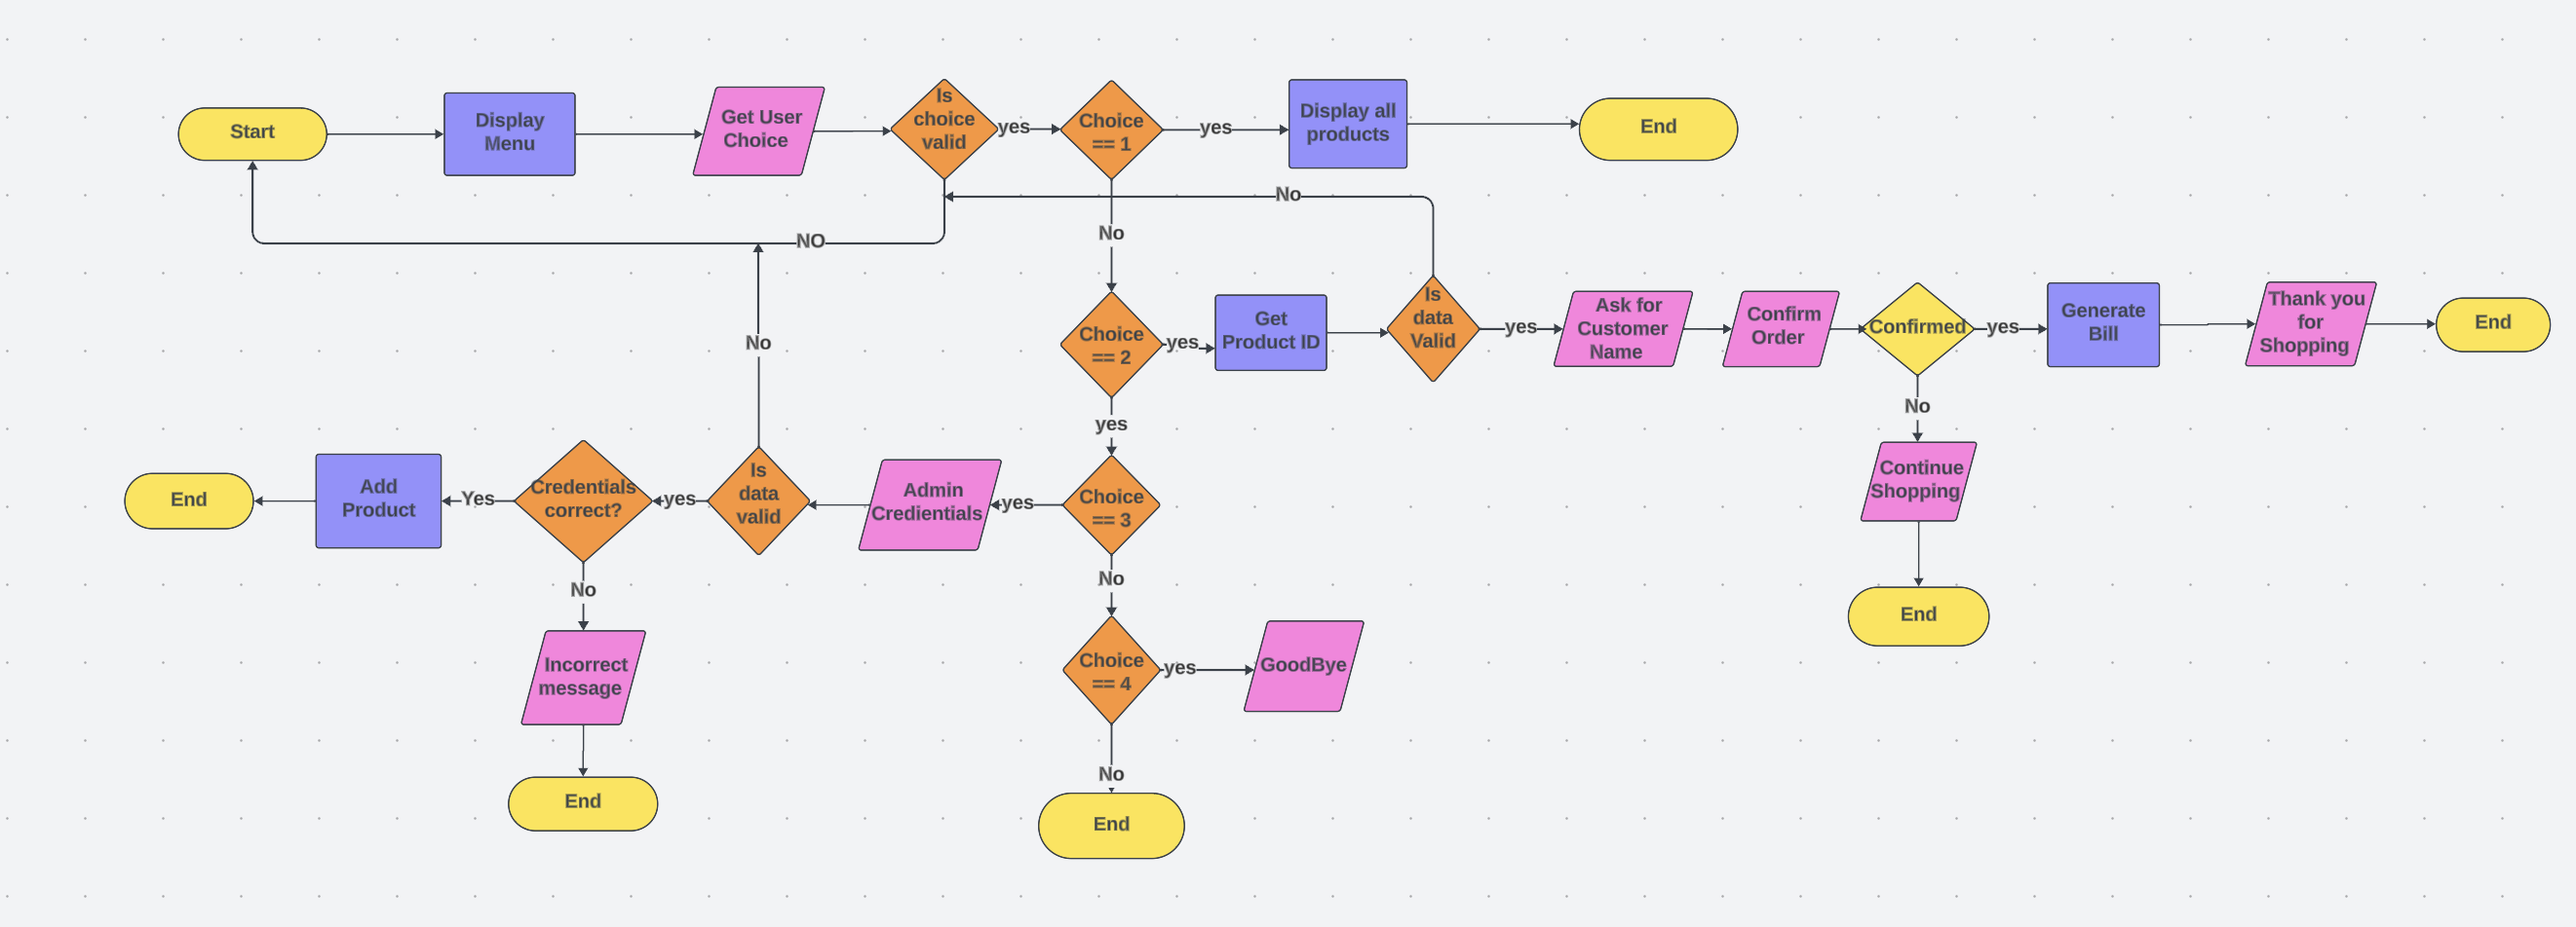
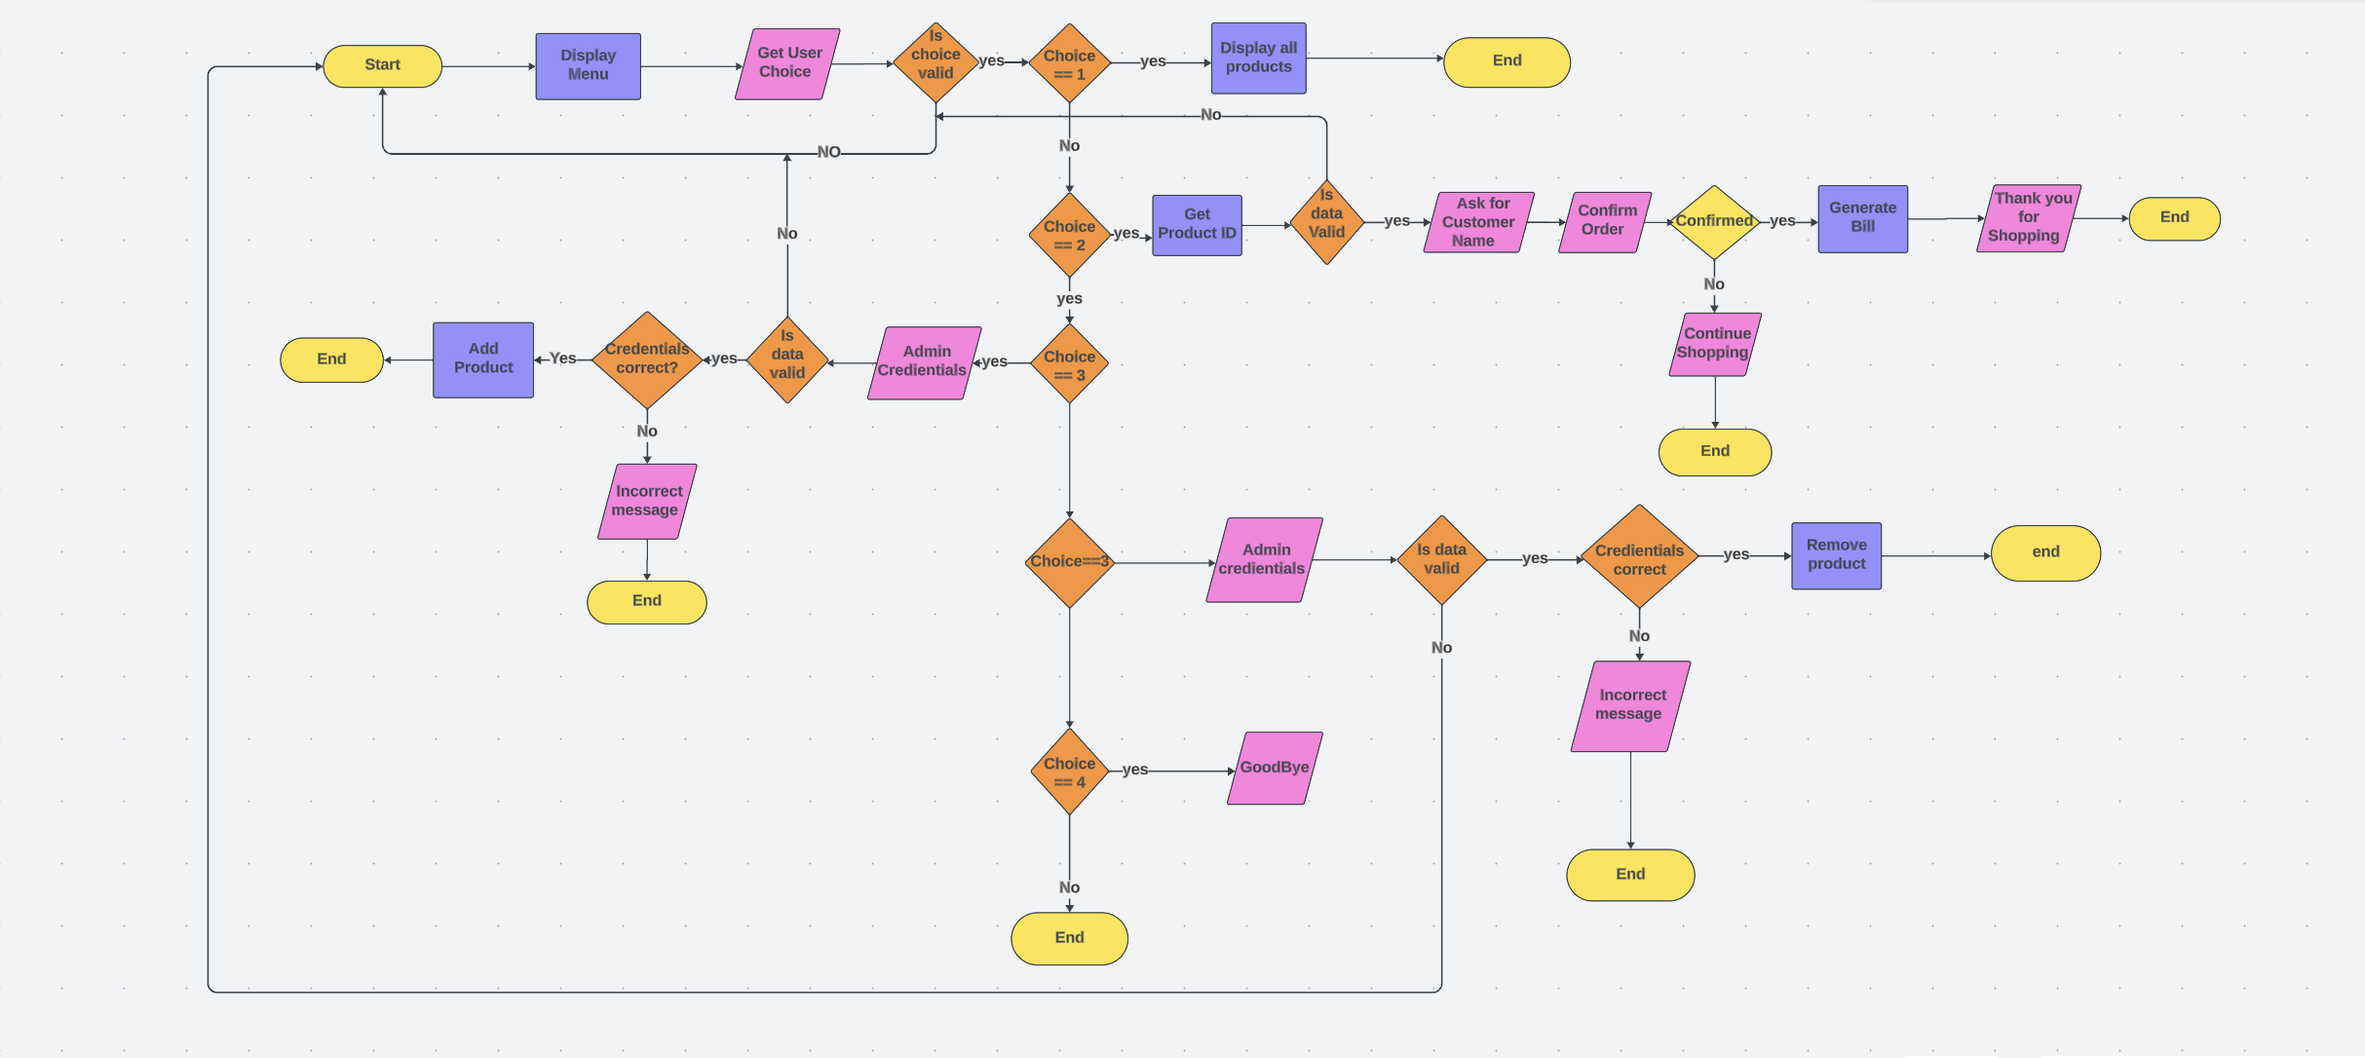
adding removeproducts screenshots to readme

diff --git a/run.py b/run.py
@@ -31,7 +31,7 @@ class InventorySystem:
         username = input("Enter Admin UserID:\n")
         password = input("Enter the Password:\n")
         if username == "Admin" and password == "password":
-            if case == 'add':
+            if case == "add":
                 prod = []
                 added = self.add_product(prod)
                 if added:
@@ -40,12 +40,12 @@ class InventorySystem:
                     productsheet.append_row(prod)
                     print("Product Data added to the Database")
                 else:
-                    print('Product exists already in the Database')
-            elif case == 'remove':
-                prod = input('Enter Product Id: ')
+                    print("Product exists already in the Database")
+            elif case == "remove":
+                prod = input("Enter Product Id: ")
                 remove = self.remove_product(prod)
                 if not remove:
-                    print('Product Id not found in the Database')
+                    print("Product Id not found in the Database")
         else:
             print("Incorrect username and password")
 
@@ -59,7 +59,7 @@ class InventorySystem:
         if not product_exists:
             quantity = input("Available Items:\n")
             price = input("Price per Unit:\n")
-            total_price = int(quantity)*int(price)
+            total_price = int(quantity) * int(price)
             if len(self.all_products) > 1:
                 prod.append(int(len(self.all_products)))
             prod.append(product_name)
@@ -79,10 +79,10 @@ class InventorySystem:
                 # Remove the product from the Google Sheet
                 productsheet = SHEET.worksheet("productsheet")
                 # Add 1 because the worksheet index starts from 1
-                productsheet.delete_rows(index+1)
+                productsheet.delete_rows(index + 1)
 
-                print("Product with ID {}, Name ( {} ) removed successfully.".format(
-                    int(prod_id), item[1]))
+                print("Product with ID {}, Name ({}) removed successfully."
+                      .format(int(prod_id), item[1]))  
                 break
         else:
             return False
@@ -107,47 +107,77 @@ class InventorySystem:
         if not self.all_products:
             print("No products available.")
         else:
-            max_widths = [max(len(str(item[i]))
-                              for item in self.all_products) for i in range(4)]
+            max_widths = [
+                max(
+                    len(
+                        str(
+                            item[i])) for item in self.all_products
+                            )for i in range(4)]
             headers = ["Product ID", "Product Name", "In Stock", "Price"]
-            format_string = "{:<{width[0]}} {:<{width[1]}} {:<{width[2]}} {:<{width[3]}}"
+            format_string = (
+                "{:<{width[0]}} {:<{width[1]}} {:<{width[2]}} {:<{width[3]}}"
+            )
             print(format_string.format(*headers, width=max_widths))
-            print("------------------------------------------------------------")
+            print(
+                "------------------------------------------------------------")
             for index, item in enumerate(self.all_products, start=1):
                 if index == 1:
                     continue
-                print(format_string.format(
-                    index - 1, item[1], item[2], item[3], width=max_widths))
+                print(
+                    format_string.format(
+                        index - 1, item[1], item[2], item[3], width=max_widths
+                    )
+                )
 
     def banner(self):
-        print("***************************************************************************")
-        print(pyfiglet.figlet_format(
-            "WELCOME TO ELECTRONICS WORLD", justify="center", width=80))
-        print("***************************************************************************")
+        print(
+            "***********************************\
+            ****************************************"
+        )
+        print(
+            pyfiglet.figlet_format(
+                "WELCOME TO ELECTRONICS WORLD", justify="center", width=80
+            )
+        )
+        print(
+            "******************************************\
+            *********************************"
+        )
         print("\t1.Show All Products")
         print("\t2.Buy a Product")
         print("\t3.Add Products")
         print("\t4.Remove Products")
         print("\t5.Exit")
-        print("***************************************************************************")
+        print(
+            "********************************************\
+            *******************************"
+        )
 
     def order_summary(self, prod_id, name):
         for item in self.all_products[1:]:
             if item[0] == prod_id:
                 print(
-                    "***************************************************************************")
+                    "*****************************************\
+                    **********************************"
+                )
                 print("\t\t\tElectronics World")
                 print(
-                    "***************************************************************************")
+                    "******************************************\
+                    *********************************"
+                )
                 print("Order Summary\tDate:{}".format(str(datetime.now())))
                 print("Customer Name: {}".format(name))
                 print("Product Name: {}".format(item[1]))
                 print("Price: {}".format(item[3]))
                 print(
-                    "***************************************************************************")
+                    "*****************************************\
+                    **********************************"
+                )
                 print("\t\t\tTotal Bill Amount: {}".format(item[3]))
                 print(
-                    "***************************************************************************")
+                    "********************************************\
+                    *******************************"
+                )
                 break
 
     def generate_bill(self, prod_id, name):
@@ -166,19 +196,28 @@ class InventorySystem:
             quantity = 1
             total_cost = price * quantity
             print(
-                "***************************************************************************")
+                "********************************************\
+                *******************************"
+            )
             print("\t\t\tElectronics World")
             print(
-                "***************************************************************************")
-            print("Bill:{} \tDate:{}".format(
-                int(random.random() * 100000), str(datetime.now())))
+                "*****************************************\
+                **********************************"
+            )
+            print(
+                "Bill:{} \tDate:{}".format(
+                    int(random.random() * 100000), str(datetime.now())
+                )
+            )
             print("Customer Name: {}".format(name))
             print("Product Name: {}".format(item[1]))
             print("Price per Unit: ${}".format(price))
             print("Quantity: {}".format(quantity))
             print("Total Cost: ${}".format(total_cost))
             print(
-                "***************************************************************************")
+                  "*********************************\
+                  ******************************************"
+            )
             print("\t\t\tTotal Bill Amount: ${}\n".format(total_cost))
         else:
             print("Product not found with the given ID")
@@ -200,13 +239,16 @@ while choice != 5:
         elif choice == 2:
             prod_id = input("Enter the Product ID:\n")
 
-            if prod_id.isdigit() and 1 <= int(prod_id) < len(inventory_system.all_products):
+            if prod_id.isdigit() and 1 <= int(prod_id) < len(
+                inventory_system.all_products
+            ):
                 name = input("Customer Name:\n")
                 prod_id = int(prod_id)
                 selected_product = inventory_system.all_products[prod_id]
                 if int(selected_product[2]) <= 0:  # Check for product quantity
-                    print('\n')
-                    print("Sorry, the item is sold out. Please come back later!")
+                    print("\n")
+                    print(
+                        "Sorry, the item is sold out. Please come back later!")
                     continue
                 inventory_system.order_summary(prod_id, name)
                 cnf = input("Confirm the Order (Y/N)\n")
@@ -214,18 +256,20 @@ while choice != 5:
                     inventory_system.generate_bill(prod_id, name)
                     print("\t\t\tThanks For shopping with Us\n")
                     print(
-                        "***************************************************************************")
+                        "**************************************** \
+                        ***********************************"
+                    )
                     input("\n\nPress Any key to continue...\n")
                 else:
-                    print('Order cancelled..')
+                    print("Order cancelled..")
             else:
                 print("Product not found with the given ID\n")
                 input("\n\nPress Any key to continue...\n")
         elif choice == 3:
-            inventory_system.admin_login('add')
+            inventory_system.admin_login("add")
             input("\n\nPress Any key to continue...\n")
         elif choice == 4:
-            inventory_system.admin_login('remove')
+            inventory_system.admin_login("remove")
             input("\n\nPress Any key to continue...\n")
         elif choice == 5:
             welcome_text = pyfiglet.figlet_format(" GOOD BYE!!! ")

diff --git a/README.md b/README.md
@@ -23,7 +23,7 @@ The live link can be found here - [Inventory-system](https://inventory-system1-f
   - If you confirm the order, it will generate a bill for the product.
 
 <details><summary>Screenshots</summary>
-<img src="images/buyproducts.png">
+<img src="images/buyproduct.png">
 </details>
 
  # Add Products (Admin Login Required, Option 3):
@@ -32,7 +32,7 @@ The live link can be found here - [Inventory-system](https://inventory-system1-f
   - After logging in, you can add new products by entering their name, stock availability, and price.
 
 <details><summary>Screenshots</summary>
-<img src="images/addingproducts.png">
+<img src="images/addproduct.png">
 </details>
 
  # Remove Product (Admin Login Required, Option 4):
@@ -42,7 +42,7 @@ The live link can be found here - [Inventory-system](https://inventory-system1-f
   - It removes the product from both the local list and the Google Sheets document.
 
 <details><summary>Screenshots</summary>
-<img src="images/addingproducts.png">
+<img src="images/removeproduct.png">
 </details> 
 
 
@@ -108,7 +108,7 @@ ication.
 | Welcome screen | entering r | it shows invalid data | It works as expected |
 
 <details><summary>Screenshots</summary>
-<img src="images/invalid-input.png">
+<img src="images/invalidinput.png">
 </details>
 
 ### Testing Admin Credientials
@@ -120,7 +120,7 @@ ication.
 | Welcome screen | entering r | it shows incorrect  data | It works as expected |
 
 <details><summary>Screenshots</summary>
-<img src="images/invalid-admin-credientials.png">
+<img src="images/invalidcredientials.png">
 </details>
 
 ### PEP8 Testing
